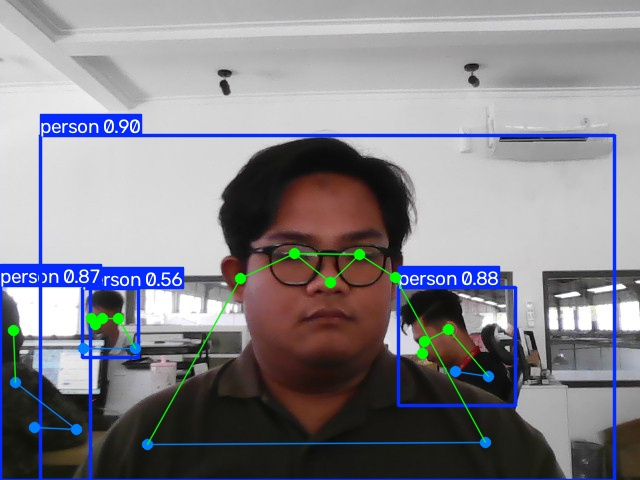
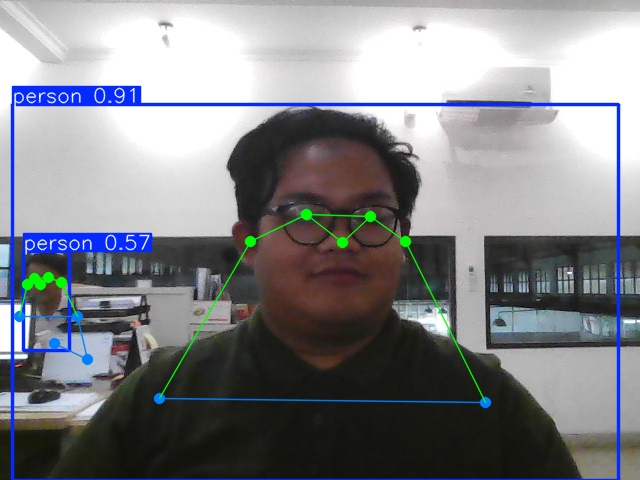
...

diff --git a/src/obj-detect.py b/src/obj-detect.py
@@ -13,7 +13,7 @@ def deteksi():
     print(f"Running YOLO11 on device: {device}")
     model = YOLO(str(MODEL_PATH))
 
-    cap = cv.VideoCapture(0)
+    cap = cv.VideoCapture(0, cv.CAP_V4L2)
     if not cap.isOpened():
         print("Error: Could not open camera.")
         return

diff --git a/src/Hand_Tracking.py b/src/Hand_Tracking.py
@@ -15,7 +15,7 @@ def track_hands():
     
     model = YOLO(str(MODEL_PATH))
 
-    cap = cv.VideoCapture(0)
+    cap = cv.VideoCapture(0, cv.CAP_V4L2)
     if not cap.isOpened():
         print("Error: Could not open camera.")
         return
